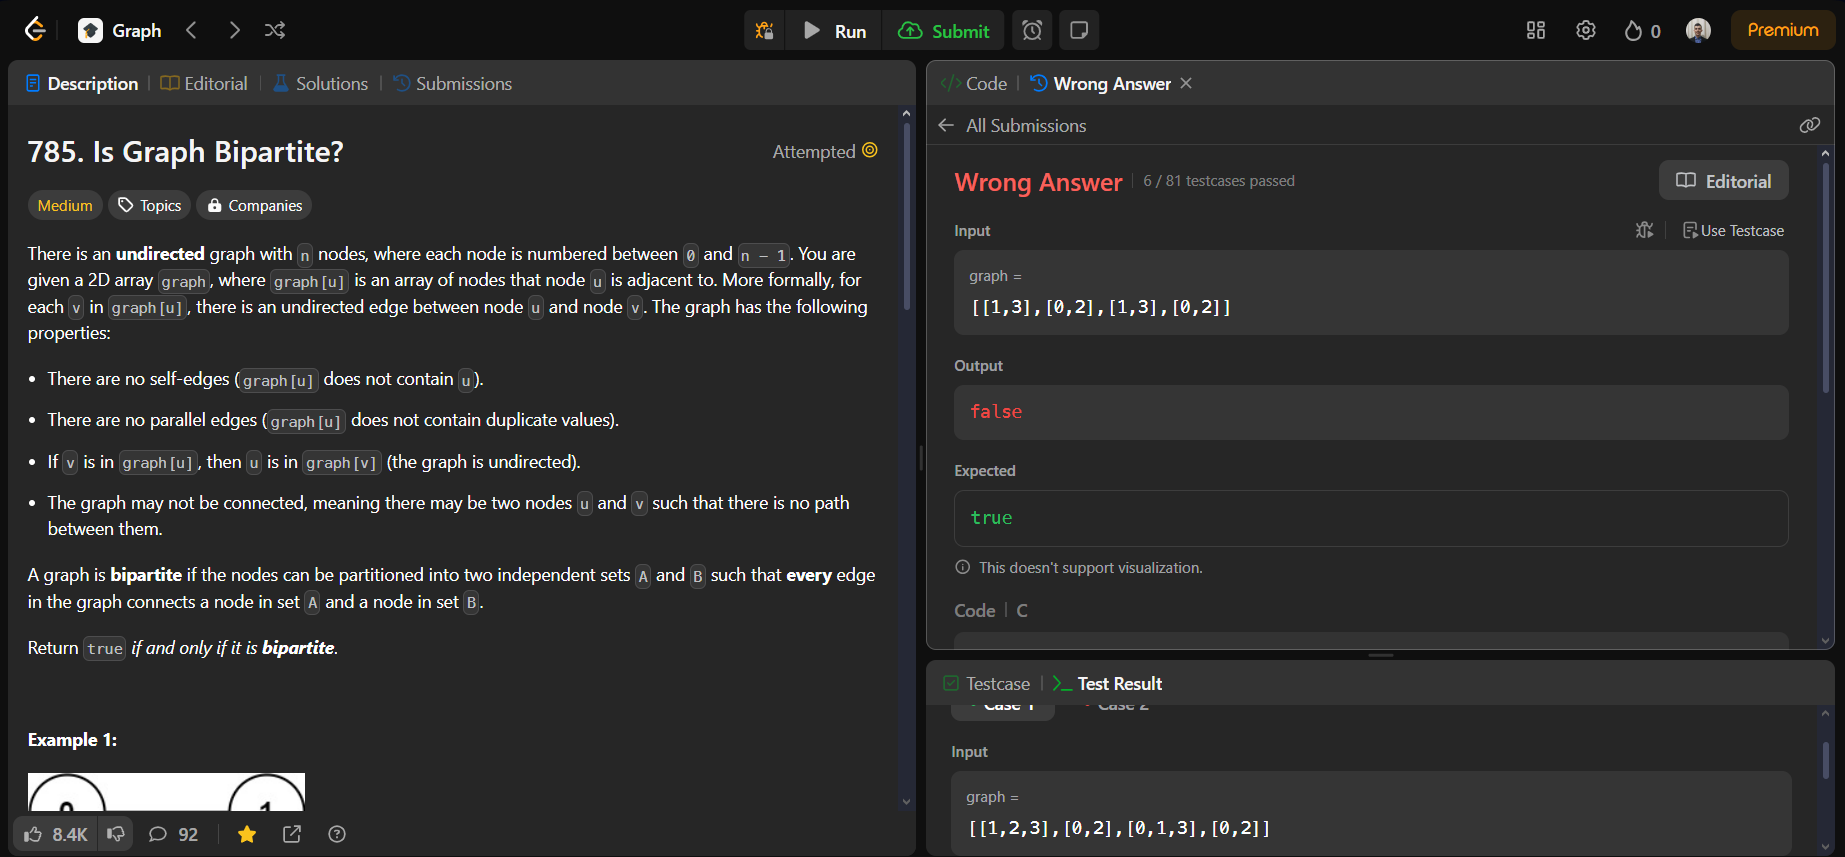
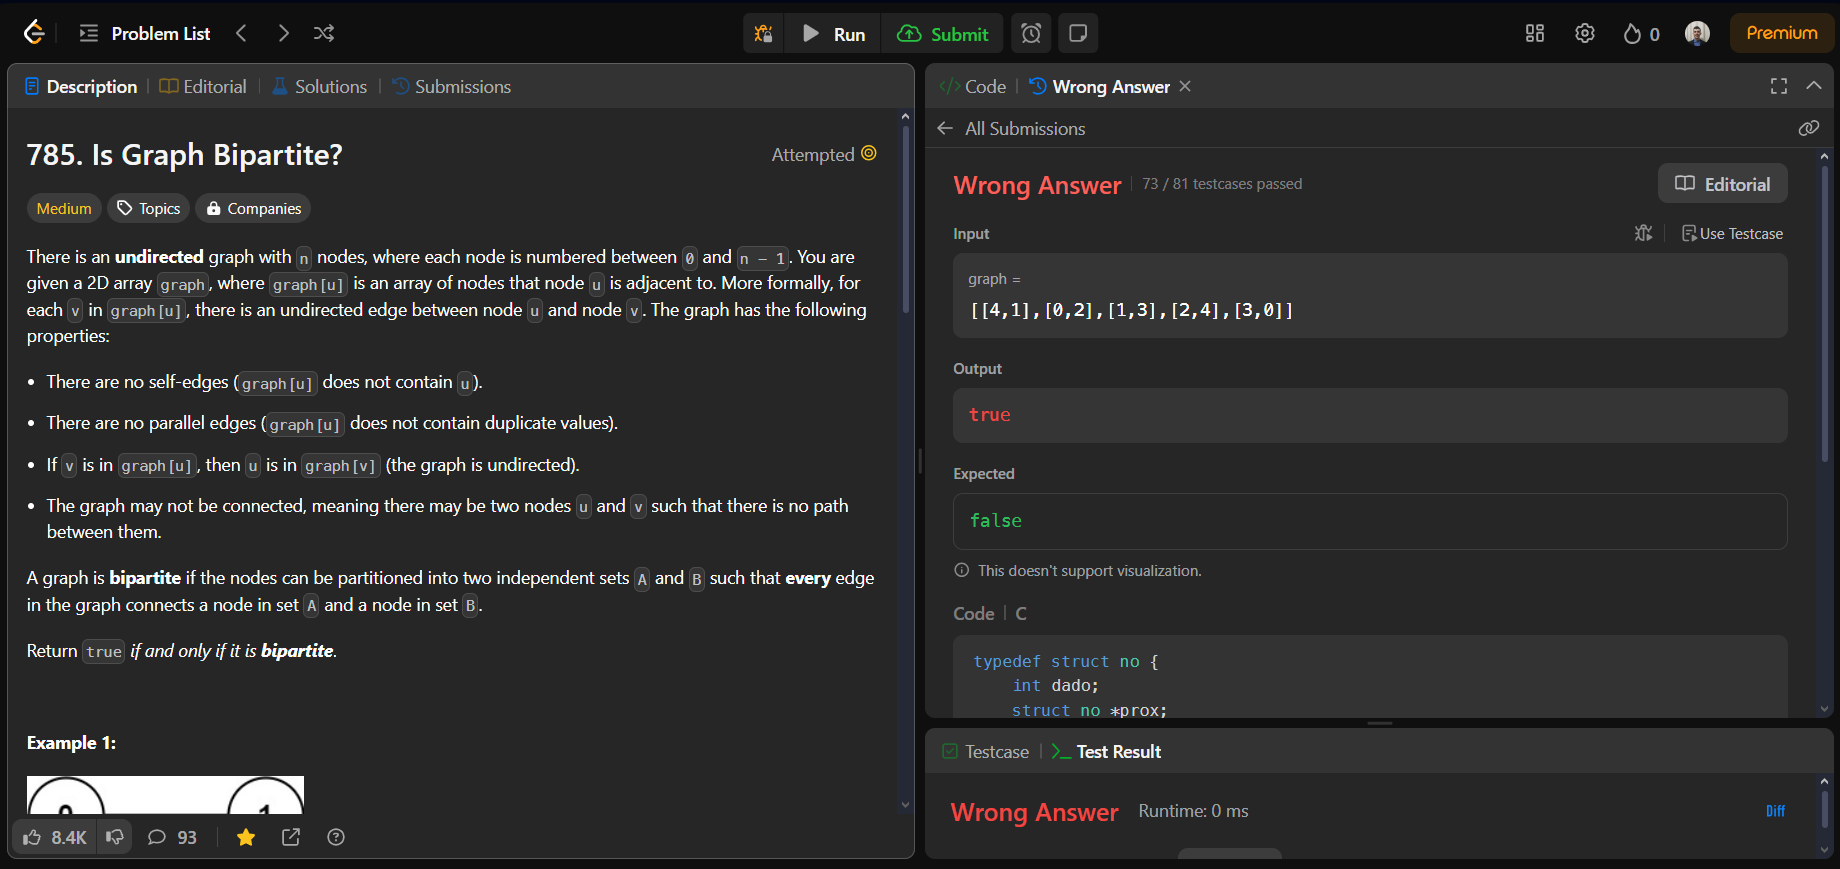
altera forma como percorre o grafo e executa bfs para cada nó não visitado
o grafo é passado como [[1,3],[0,2]] e não [[0,1,0,1],[1,0,1,0]]

diff --git a/problems/IsGraphBipartite/isGraphBipartite.c b/problems/IsGraphBipartite/isGraphBipartite.c
@@ -5,75 +5,82 @@
 typedef struct no {
     int dado;
     struct no *prox;
-} No;
+} no;
 typedef struct {
-    int v;
+    int visitado;
     int camada;
 } vNo;
-No *cria_fila(){
-    No *fila = (No *) malloc(sizeof(No));
+no *cria_fila(){
+    no *fila = (no *) malloc(sizeof(no));
     if (fila != NULL){
         fila->dado = 0;
         fila->prox = NULL;
     }
     return fila;
 }
-void enfileira(No *fila, int dado){
-    No *novo = (No *) malloc(sizeof(No));
+void enfileira(no *fila, int dado){
+    no *novo = (no *) malloc(sizeof(no));
     if (novo != NULL){
         novo->dado = dado;
         novo->prox = NULL;
-        No *temp = fila;
+        no *temp = fila;
         while (temp->prox != NULL) {
             temp = temp->prox;
         }
         temp->prox = novo;
     }
 }
-No *desenfileira(No *fila){
-    if (fila->prox == NULL) {
-        return NULL;
-    }
-    No *no = fila->prox;
+int desenfileira(no *fila){
+    assert(!fila_vazia(fila));
+    no *no = fila->prox;
     fila->prox = no->prox;
-    return no;
+    int valor = no->dado;
+    free(no);
+    return valor;
 }
-int fila_vazia(No *fila){
+int fila_vazia(no *fila){
     return (fila->prox == NULL);
 }
-int bfs(int **graph, int graphSize, No *fila, vNo *visited, int v){
+int bfs(int **graph, int graphSize, int *graphColSize, no *fila, vNo *visited, int v){
     int camada = 0;
-    visited[v].v = 1;
+    visited[v].visitado = 1;
     visited[v].camada = camada;
     enfileira(fila, v);
     while(!fila_vazia(fila)){
-        No *w = desenfileira(fila);
+        v = desenfileira(fila);
         camada++;
-        v = w->dado;
         int vCamada = visited[v].camada;
-        for (int i=0; i < graphSize; i++){
-            if (graph[v][i] && visited[i].v == 0){
-                visited[i].v = 1;
-                visited[i].camada = camada;
-                enfileira(fila, i);
+        for (int i=0; i < graphColSize[v]; i++){
+            int vizinho = graph[v][i];
+            if (visited[vizinho].visitado == 0){
+                visited[vizinho].visitado = 1;
+                visited[vizinho].camada = camada;
+                enfileira(fila, vizinho);
             }
-            else if (graph[v][i] && visited[i].v == 1){
-                if (vCamada == visited[i].camada) return 0;
+            else if (visited[vizinho].visitado == 1){
+                if (vCamada == visited[vizinho].camada) return 0;
             }
         }
-        free(w);
     }
     return 1;
 }
 bool isBipartite(int** graph, int graphSize, int* graphColSize) {
     vNo *visited = (vNo *) malloc(graphSize * sizeof(vNo));
     for (int i=0; i < graphSize; i++){
-        visited[i].v = 0;
+        visited[i].visitado = 0;
         visited[i].camada = -1;
     }
-    No *fila = cria_fila();
-    int result = bfs(graph, graphSize, fila, visited, 0);
+    no *fila = cria_fila();
+    for (int i=0; i<graphSize; i++){
+        if (!visited[i].visitado){
+            if (!bfs(graph, graphSize, graphColSize, fila, visited, i)){
+                free(fila);
+                free(visited);
+                return false;
+            }
+        }
+    }
     free(fila);
     free(visited);
-    return result == 1 ? true : false;
+    return true;
 }
